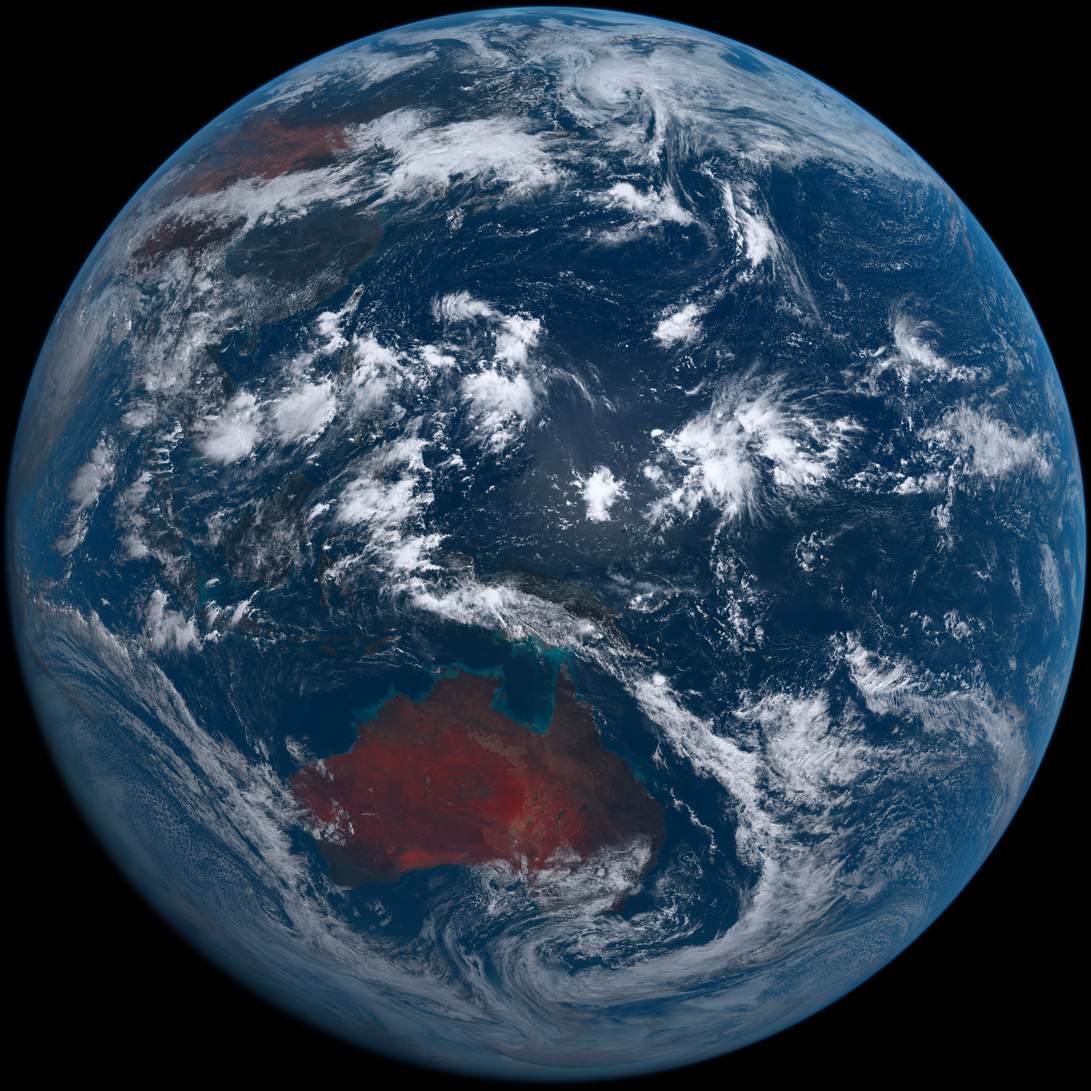
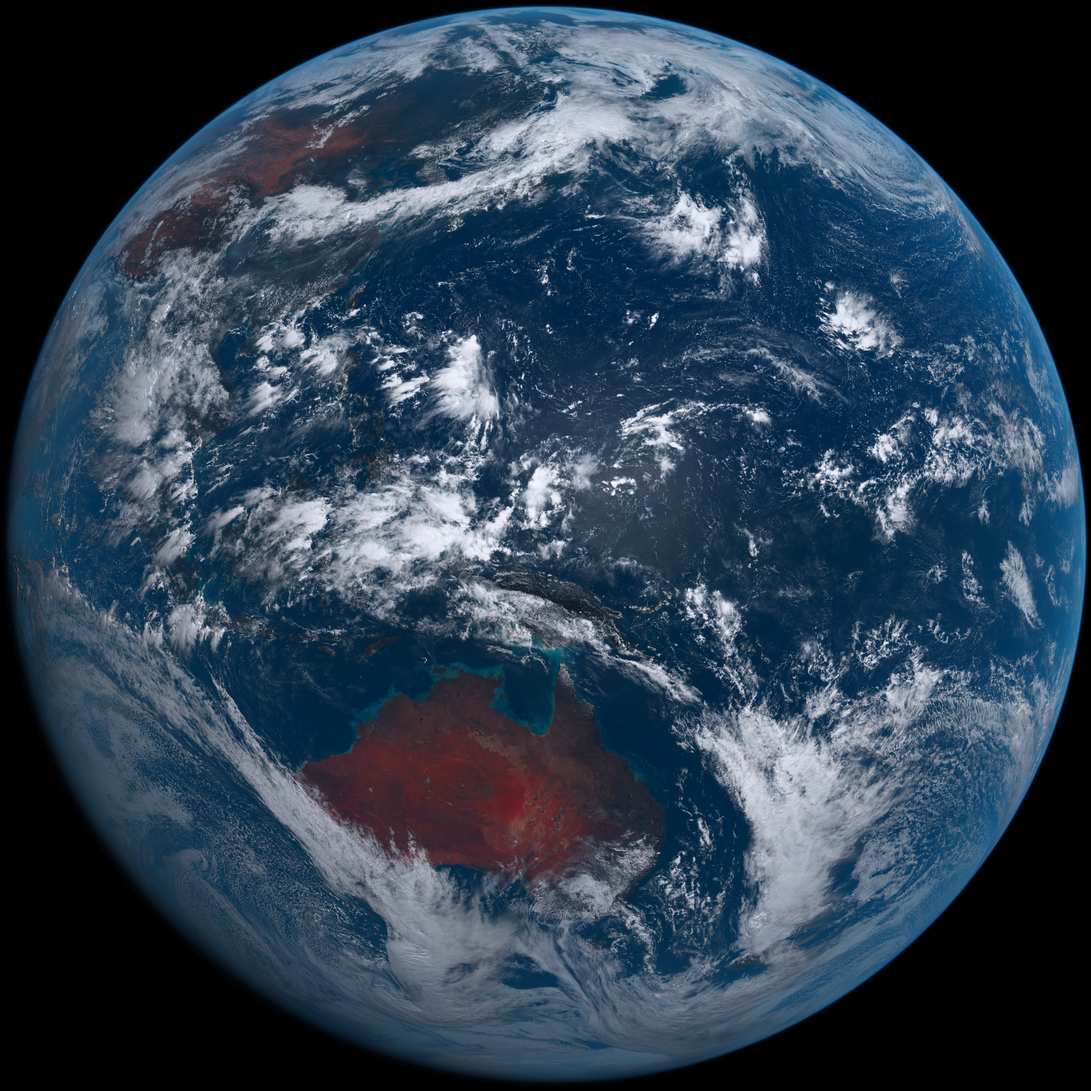
Tuesday 08/16/2022 04:00 +00

diff --git a/README.md b/README.md
@@ -1,12 +1,12 @@
 # ps1
 
 - ### [BingWallpaper](https://github.com/milankomaj/ps1/wiki/BingWallpaper)  [![Generate Wallpapers Github README.md](https://github.com/milankomaj/ps1/actions/workflows/GenWall.yml/badge.svg?event=schedule)](https://github.com/milankomaj/ps1/actions/workflows/GenWall.yml)
-- ##### Monday 15/08/2022 04:10:15 +00
+- ##### Tuesday 16/08/2022 04:00:01 +00
 <img src="BingWallpaper/latest.jpg" width="700" height="auto" title="👉  BingWallpaper  👈">
 
 
 - ### [Himawari](https://github.com/milankomaj/ps1/wiki/Himawari) [![Generate Wallpapers Github README.md](https://github.com/milankomaj/ps1/actions/workflows/GenWall.yml/badge.svg?event=schedule)](https://github.com/milankomaj/ps1/actions/workflows/GenWall.yml) [![Video](https://github.com/milankomaj/ps1/actions/workflows/video.yml/badge.svg?event=schedule)](https://github.com/milankomaj/ps1/actions/workflows/video.yml)
-- ##### Monday 15/08/2022 04:10:51 +00
+- ##### Tuesday 16/08/2022 04:00:37 +00
 <img src="Himawari/latest.jpg" width="auto" height="371" title="👉  Himawari  👈"> <img src="Himawari/pifd/himawari_pifd.webp" width="auto" height="371"/>
 
 
